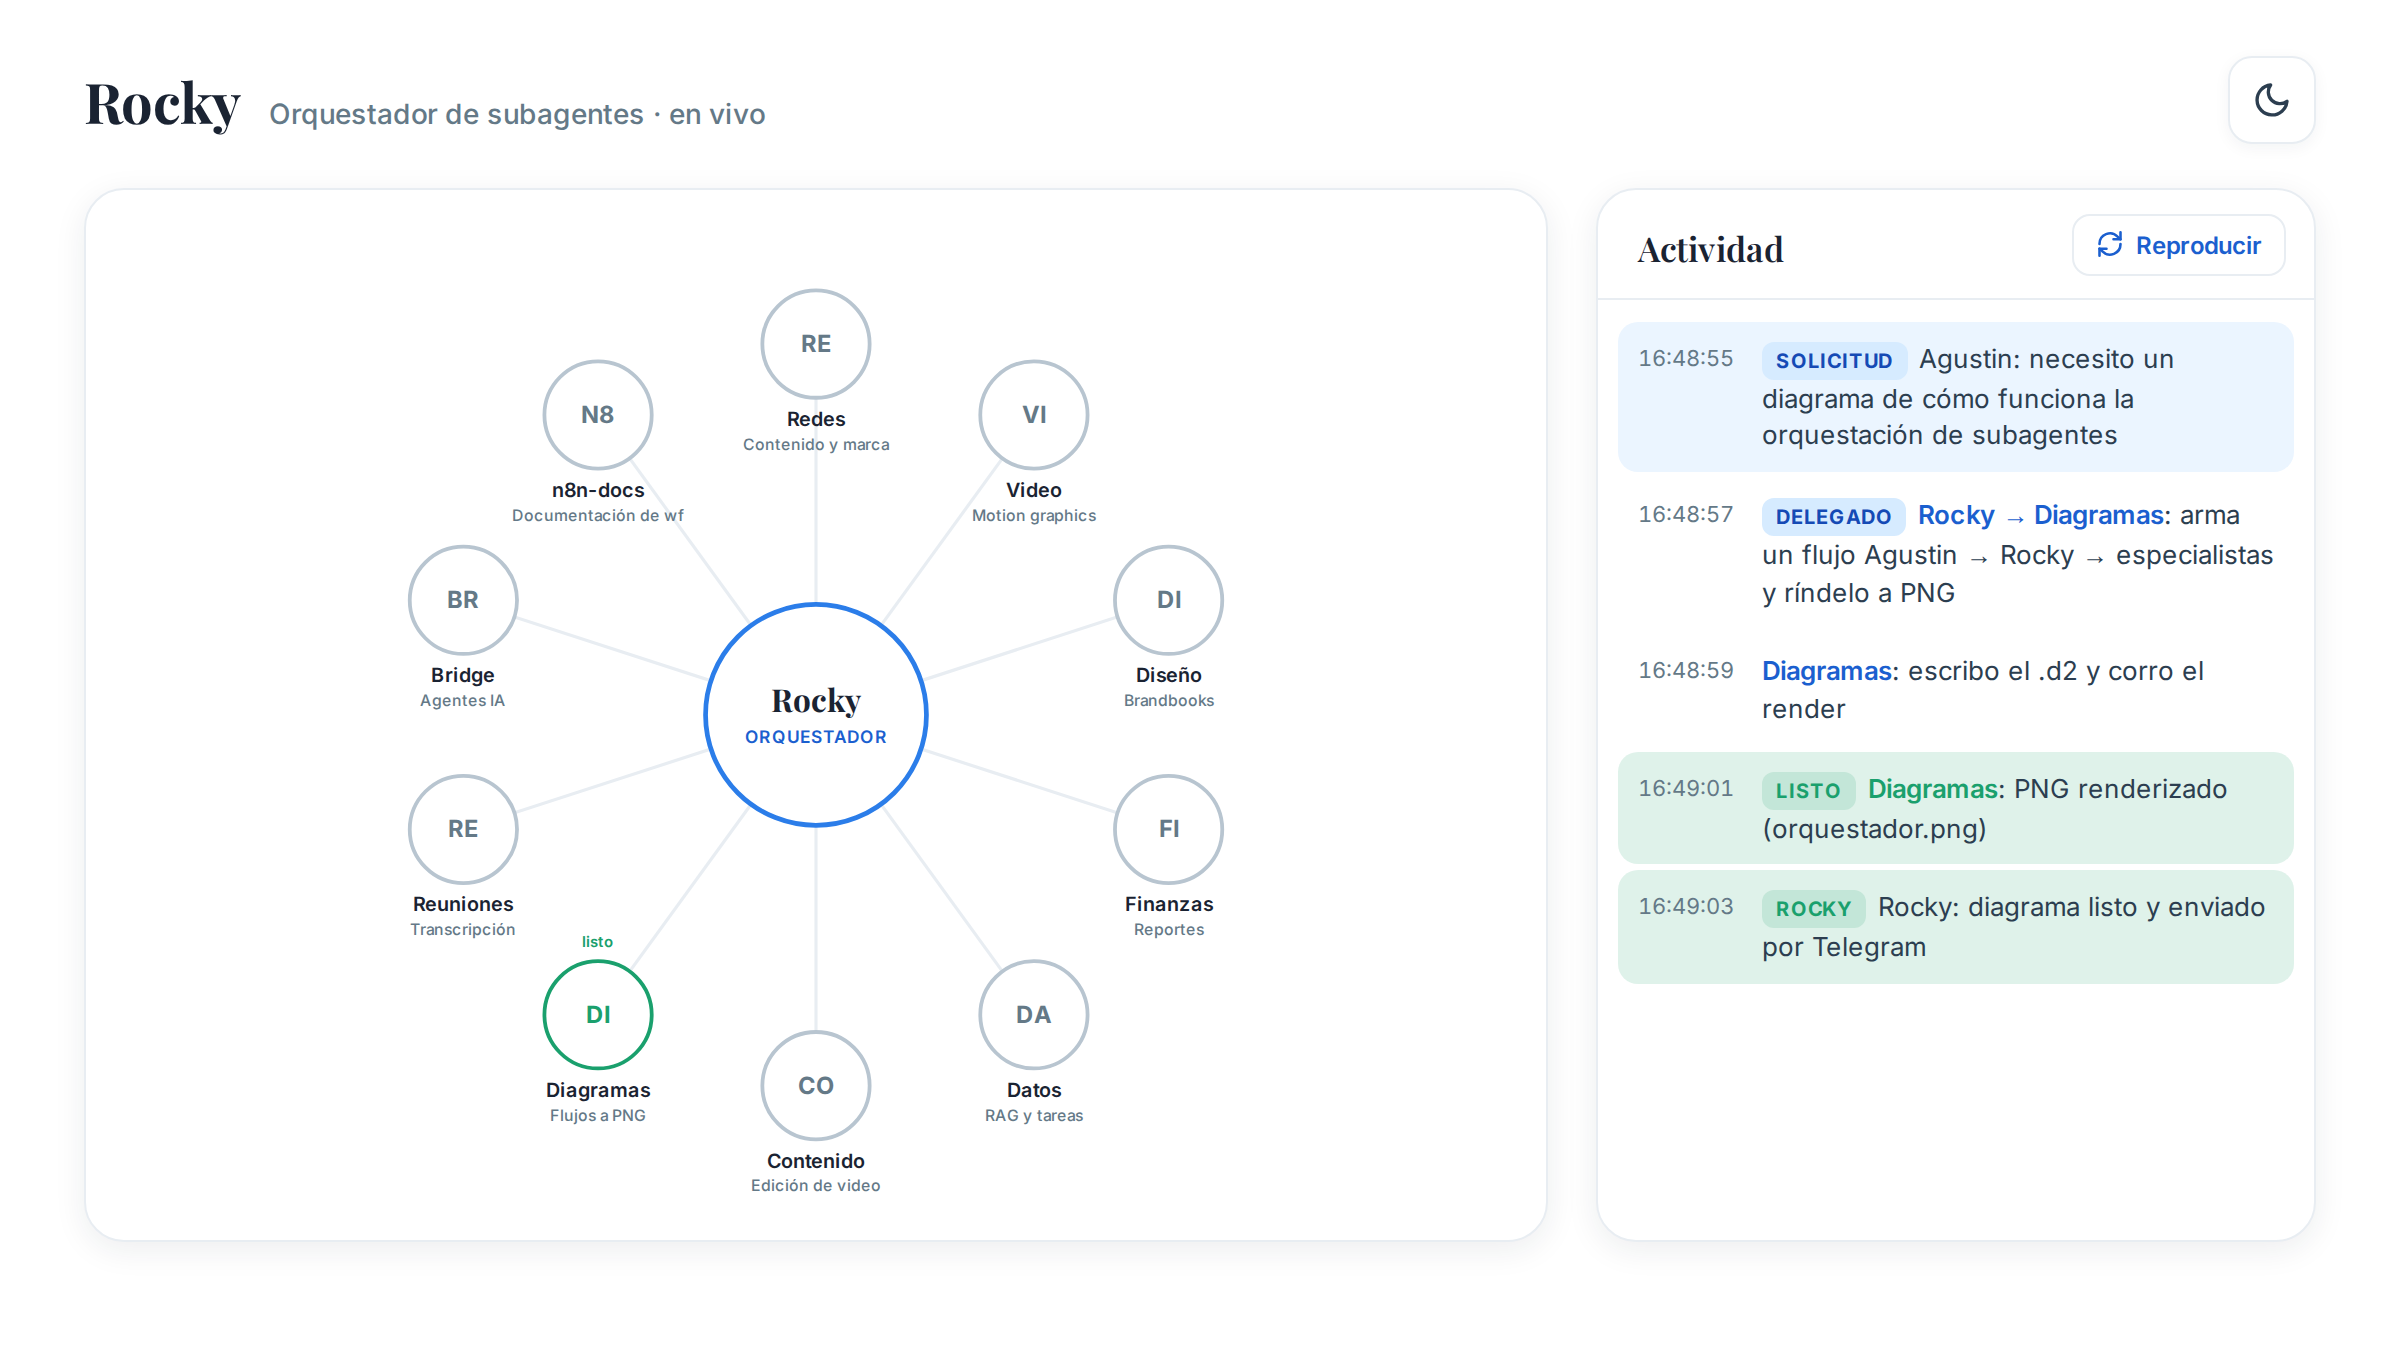
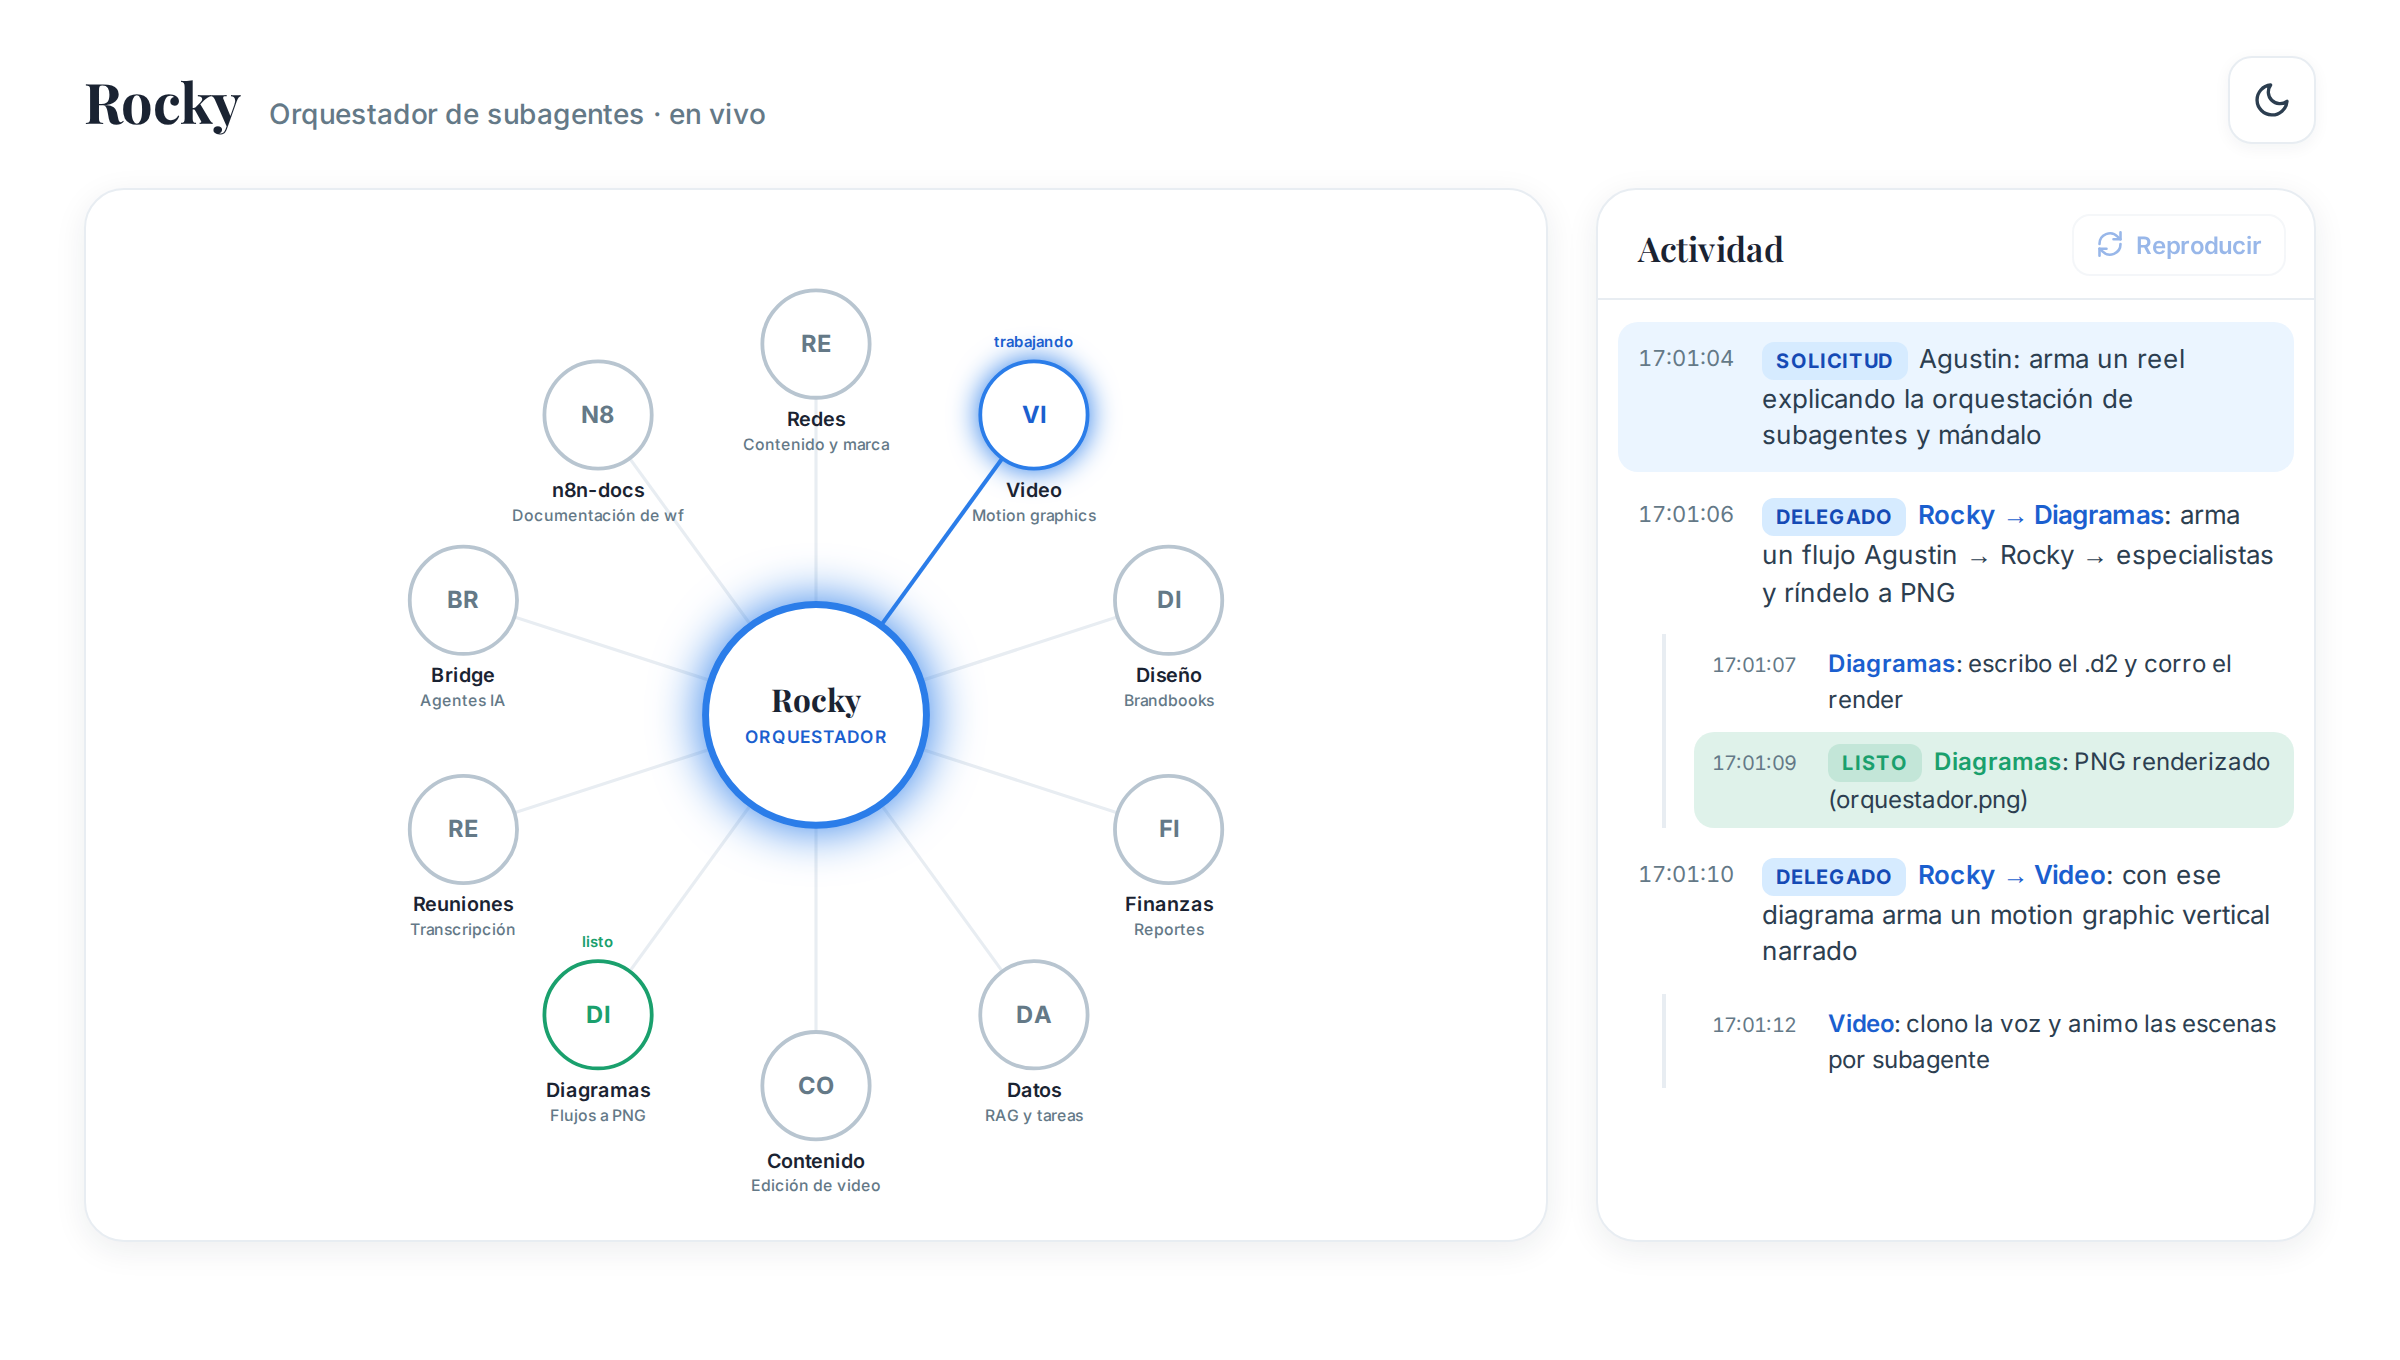
Actividad jerarquica: llamado a subagente como entrada principal y sus acciones tabuladas debajo

diff --git a/index.html b/index.html
@@ -59,6 +59,9 @@ h1{font-family:var(--font-serif);font-weight:700;color:var(--navy);font-size:28p
 .tag{display:inline-block;font-size:10px;font-weight:700;letter-spacing:.4px;text-transform:uppercase;padding:2px 7px;border-radius:6px;margin-right:6px;background:var(--light-gray);color:var(--dark-gray)}
 .tag.b{background:var(--blue-100);color:var(--blue-700)}
 .tag.g{background:var(--green-soft);color:var(--green)}
+.children{margin:0 0 5px 22px;padding-left:14px;border-left:2px solid var(--line)}
+.children .entry{font-size:12px;padding:6px 9px;margin:2px 0}
+.children .entry .t{min-width:48px;font-size:10px}
 @keyframes in{from{opacity:0;transform:translateY(6px)}to{opacity:1;transform:none}}
 /* nodes */
 .node-label{font-family:var(--font-sans);font-weight:600;font-size:12.5px;fill:var(--navy)}
@@ -170,11 +173,23 @@ function mask(s){
     .replace(/\b\d{9,}\b/g, '****');
 }
 function safe(s){return esc(mask(s));}
-function log(body,kind='',tag,tagcls=''){
+let currentGroup=null; // contenedor de sub-acciones del llamado vigente
+function makeEntry(body,kind,tag,tagcls){
   const e=document.createElement('div');e.className='entry '+kind;
   const tagHtml=tag?`<span class="tag ${tagcls}">${tag}</span>`:'';
   e.innerHTML=`<div class="t">${now()}</div><div class="b">${tagHtml}${body}</div>`;
-  logEl.appendChild(e);logEl.scrollTop=logEl.scrollHeight;
+  return e;
+}
+// Entrada de primer nivel (solicitud, llamado a subagente, entrega).
+function logTop(body,kind='',tag,tagcls=''){
+  currentGroup=null;
+  logEl.appendChild(makeEntry(body,kind,tag,tagcls));
+  logEl.scrollTop=logEl.scrollHeight;
+}
+// Sub-accion tabulada debajo del llamado vigente.
+function logChild(body,kind='',tag,tagcls=''){
+  (currentGroup||logEl).appendChild(makeEntry(body,kind,tag,tagcls));
+  logEl.scrollTop=logEl.scrollHeight;
 }
 
 let dotTimers={};
@@ -190,9 +205,9 @@ function flow(id){
 }
 
 window.viz={
-  reset(){build();logEl.innerHTML='';document.getElementById('rocky').classList.remove('busy');},
+  reset(){build();logEl.innerHTML='';currentGroup=null;document.getElementById('rocky').classList.remove('busy');},
   rockyBusy(b){document.getElementById('rocky').classList.toggle('busy',b);},
-  request(text){this.rockyBusy(true);log(safe(text),'req','Solicitud','b');},
+  request(text){this.rockyBusy(true);logTop(safe(text),'req','Solicitud','b');},
   delegate(id,text){
     const a=AGENTS.find(x=>x.id===id);
     document.getElementById('edge-'+id).classList.add('active');
@@ -200,17 +215,20 @@ window.viz={
     document.getElementById('badge-'+id).textContent='trabajando';
     document.getElementById('badge-'+id).setAttribute('fill','var(--blue-600)');
     flow(id);
-    log(`<b>Rocky &rarr; ${esc(a.name)}</b>: ${safe(text)}`,'work','Delegado','b');
+    // El llamado al subagente es la entrada principal; sus acciones van tabuladas debajo.
+    logTop(`<b>Rocky &rarr; ${esc(a.name)}</b>: ${safe(text)}`,'work','Delegado','b');
+    const kids=document.createElement('div');kids.className='children';
+    logEl.appendChild(kids);currentGroup=kids;
   },
-  agentMsg(id,text){const a=AGENTS.find(x=>x.id===id);log(`<b>${esc(a.name)}</b>: ${safe(text)}`,'work');},
+  agentMsg(id,text){const a=AGENTS.find(x=>x.id===id);logChild(`<b>${esc(a.name)}</b>: ${safe(text)}`,'work');},
   done(id,text){
     const a=AGENTS.find(x=>x.id===id);
     const n=document.getElementById('node-'+id);n.classList.remove('active');n.classList.add('done');
     document.getElementById('edge-'+id).classList.remove('active');
     const b=document.getElementById('badge-'+id);b.textContent='listo';b.setAttribute('fill','var(--green)');
-    log(`<b>${esc(a.name)}</b>: ${safe(text)}`,'done','Listo','g');
+    logChild(`<b>${esc(a.name)}</b>: ${safe(text)}`,'done','Listo','g');
   },
-  deliver(text){this.rockyBusy(false);log(safe(text),'done','Rocky','g');},
+  deliver(text){this.rockyBusy(false);logTop(safe(text),'done','Rocky','g');},
 };
 
 /* theme */
@@ -223,11 +241,14 @@ setTheme((()=>{try{return localStorage.getItem('visorTheme')||'light'}catch(e){r
 
 /* demo scenario: una orquestacion real (delegacion al agente de diagramas) */
 const STEPS=[
-  {d:1400, fn:()=>viz.request('Agustin: necesito un diagrama de cómo funciona la orquestación de subagentes')},
-  {d:1800, fn:()=>viz.delegate('diagramas','arma un flujo Agustin → Rocky → especialistas y ríndelo a PNG')},
-  {d:2000, fn:()=>viz.agentMsg('diagramas','escribo el .d2 y corro el render')},
-  {d:2200, fn:()=>viz.done('diagramas','PNG renderizado (orquestador.png)')},
-  {d:1600, fn:()=>viz.deliver('Rocky: diagrama listo y enviado por Telegram')},
+  {d:1200, fn:()=>viz.request('Agustin: arma un reel explicando la orquestación de subagentes y mándalo')},
+  {d:1500, fn:()=>viz.delegate('diagramas','arma un flujo Agustin → Rocky → especialistas y ríndelo a PNG')},
+  {d:1500, fn:()=>viz.agentMsg('diagramas','escribo el .d2 y corro el render')},
+  {d:1500, fn:()=>viz.done('diagramas','PNG renderizado (orquestador.png)')},
+  {d:1600, fn:()=>viz.delegate('video','con ese diagrama arma un motion graphic vertical narrado')},
+  {d:1500, fn:()=>viz.agentMsg('video','clono la voz y animo las escenas por subagente')},
+  {d:1500, fn:()=>viz.done('video','reel listo (orquestacion.mp4)')},
+  {d:1500, fn:()=>viz.deliver('Rocky: reel terminado y enviado por Telegram')},
 ];
 let playTimers=[];
 const replayBtn=document.getElementById('replayBtn');